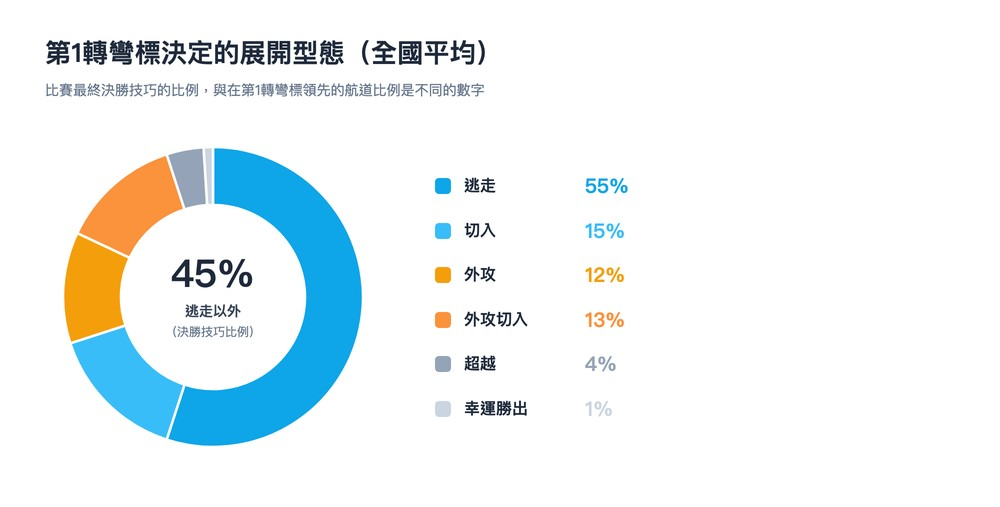
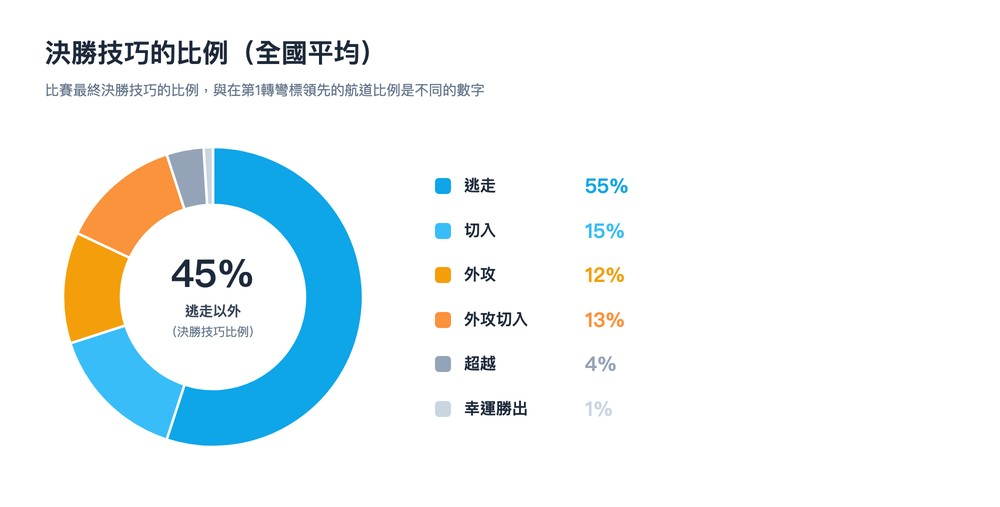
fix: レビューのP2を直す（見出しと画像タイトル・戦略2の行の長さ・ソナー記事へのリンク）
- 1マーク記事の表の見出しとドーナツ画像のタイトルを「決まり手の内訳（全国平均）」の趣旨にする（4言語、画像は1000×507のまま作り直し）
- スジ記事の戦略2で今回足した行を短くし、375pxで切れないようにする（4言語）
- 1マーク記事（ja）の龍神ソナーの説明に /blog/sonar-guide へのリンクを足す

Changed region(s): [[0.031, 0.0592, 0.496, 0.1479]]

diff --git a/public/blog/first-mark-prediction-guide.md b/public/blog/first-mark-prediction-guide.md
@@ -10,7 +10,7 @@
 
 ボートレースは、競馬や競輪と違い**水上を走る**競技です。水上では追い抜きが非常に困難で、**先行した艇がそのまま逃げ切る**ケースが多くなります。
 
-### 1マークで決まる展開パターン
+### 決まり手の内訳（全国平均）
 
 | 決まり手 | 説明 | 全国平均発生率 |
 |---------|------|-------------|
@@ -87,7 +87,7 @@
 
 ### 1. 「AI予想」タブと「龍神ソナー」
 
-レース詳細の「AI予想」タブでは、1着候補が確率順に表示されます。過去の展開を条件付きで確かめる場合は、別タブの「龍神ソナー」を開きます。
+レース詳細の「AI予想」タブでは、1着候補が確率順に表示されます。過去の展開を条件付きで確かめる場合は、別タブの「龍神ソナー」を開きます（使い方は[龍神ソナーの使い方](/blog/sonar-guide)で解説しています）。
 
 ### 2. 超展開データテーブル
 

diff --git a/public/blog/first-mark-prediction-guide-en.md b/public/blog/first-mark-prediction-guide-en.md
@@ -10,7 +10,7 @@ Ryujin Radar includes a **"Turn Prediction"** feature that statistically predict
 
 Unlike horse racing or bicycle racing, boat racing takes place **on the water**. Passing another boat on the water is extremely difficult, so **the boat that takes the lead tends to hold it wire-to-wire**.
 
-### The winning-technique patterns decided at the first mark
+### Breakdown of winning techniques (national average)
 
 | Technique | Description | National average frequency |
 |---------|------|-------------|

diff --git a/public/blog/first-mark-prediction-guide-ko.md b/public/blog/first-mark-prediction-guide-ko.md
@@ -10,7 +10,7 @@
 
 경정은 경마나 경륜과 달리 **수상을 달리는** 경기입니다. 수상에서는 추월이 매우 어려워, **선행한 정이 그대로 도주에 성공**하는 경우가 많아집니다.
 
-### 1마크에서 결정되는 전개 패턴
+### 결정기술 내역(전국 평균)
 
 | 결정기술 | 설명 | 전국 평균 발생률 |
 |---------|------|-------------|

diff --git a/public/blog/suji-funaken-guide-en.md b/public/blog/suji-funaken-guide-en.md
@@ -172,8 +172,9 @@ Cutting just 2 combinations already improves your return rate.
 
 ```
 [Predicted development]
-- Lane 1's start was slow in the exhibition
-- Lane 4's start was fast in the exhibition, and it may go for an overtake in the actual race
+- Exhibition: lane 1 ST slow
+- Exhibition: lane 4 ST fast
+→ May overtake in the race
 → Go with the lane-4 overtake suji
 
 [Bets]

diff --git a/public/blog/suji-funaken-guide-ko.md b/public/blog/suji-funaken-guide-ko.md
@@ -172,8 +172,9 @@
 
 ```
 【전개 예상】
-・전시에서 1번정 스타트가 느렸음
-・전시에서 4번정 스타트가 빨랐고, 본 레이스에서도 마쿠리할 가능성이 있음
+・전시: 1번정 ST 느림
+・전시: 4번정 ST 빠름
+→ 본 레이스도 마쿠리 가능성
 → 4번정 마쿠리의 스지 채택
 
 【구매 조합】

diff --git a/public/blog/suji-funaken-guide.md b/public/blog/suji-funaken-guide.md
@@ -172,8 +172,9 @@
 
 ```
 【展開予想】
-・展示では1号艇のスタートが遅かった
-・展示では4号艇のスタートが早く、本番でもまくりに行く可能性がある
+・展示: 1号艇のSTが遅い
+・展示: 4号艇のSTが早い
+→ 本番もまくりの可能性
 → 4号艇まくりのスジを採用
 
 【買い目】

diff --git a/public/blog/first-mark-prediction-guide-zh-tw.md b/public/blog/first-mark-prediction-guide-zh-tw.md
@@ -10,7 +10,7 @@
 
 賽艇與賽馬、競輪不同，是**在水上競速**的競技。在水上要超越對手非常困難，因此**領先的艇直接逃走到底**的情況較多。
 
-### 1轉彎決定的走勢模式
+### 決勝技巧的比例（全國平均）
 
 | 決勝技巧 | 說明 | 全國平均發生率 |
 |---------|------|-------------|

diff --git a/public/blog/suji-funaken-guide-zh-tw.md b/public/blog/suji-funaken-guide-zh-tw.md
@@ -172,8 +172,9 @@
 
 ```
 【走勢預測】
-・展示中1號艇起跑較慢
-・展示中4號艇起跑快，正式比賽也可能外攻
+・展示：1號艇ST慢
+・展示：4號艇ST快
+→ 正式比賽也可能外攻
 → 採用4號艇外攻筋
 
 【投注組合】
